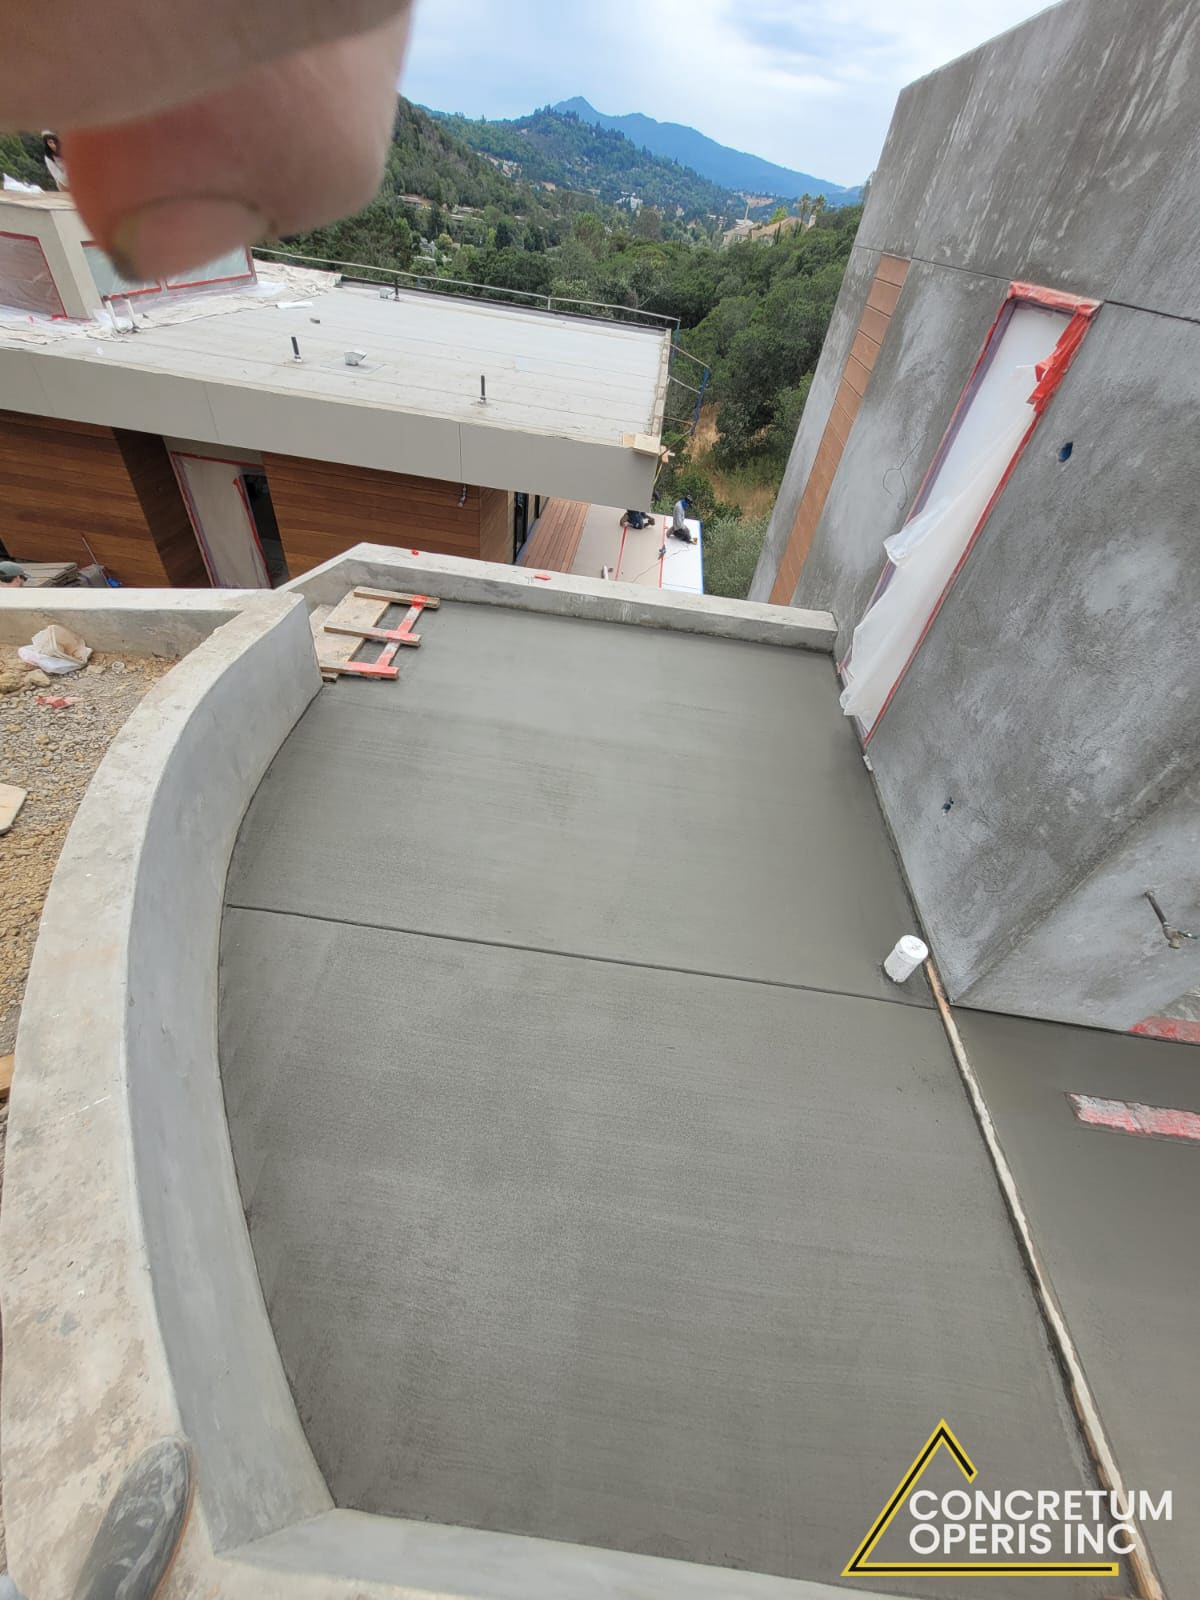
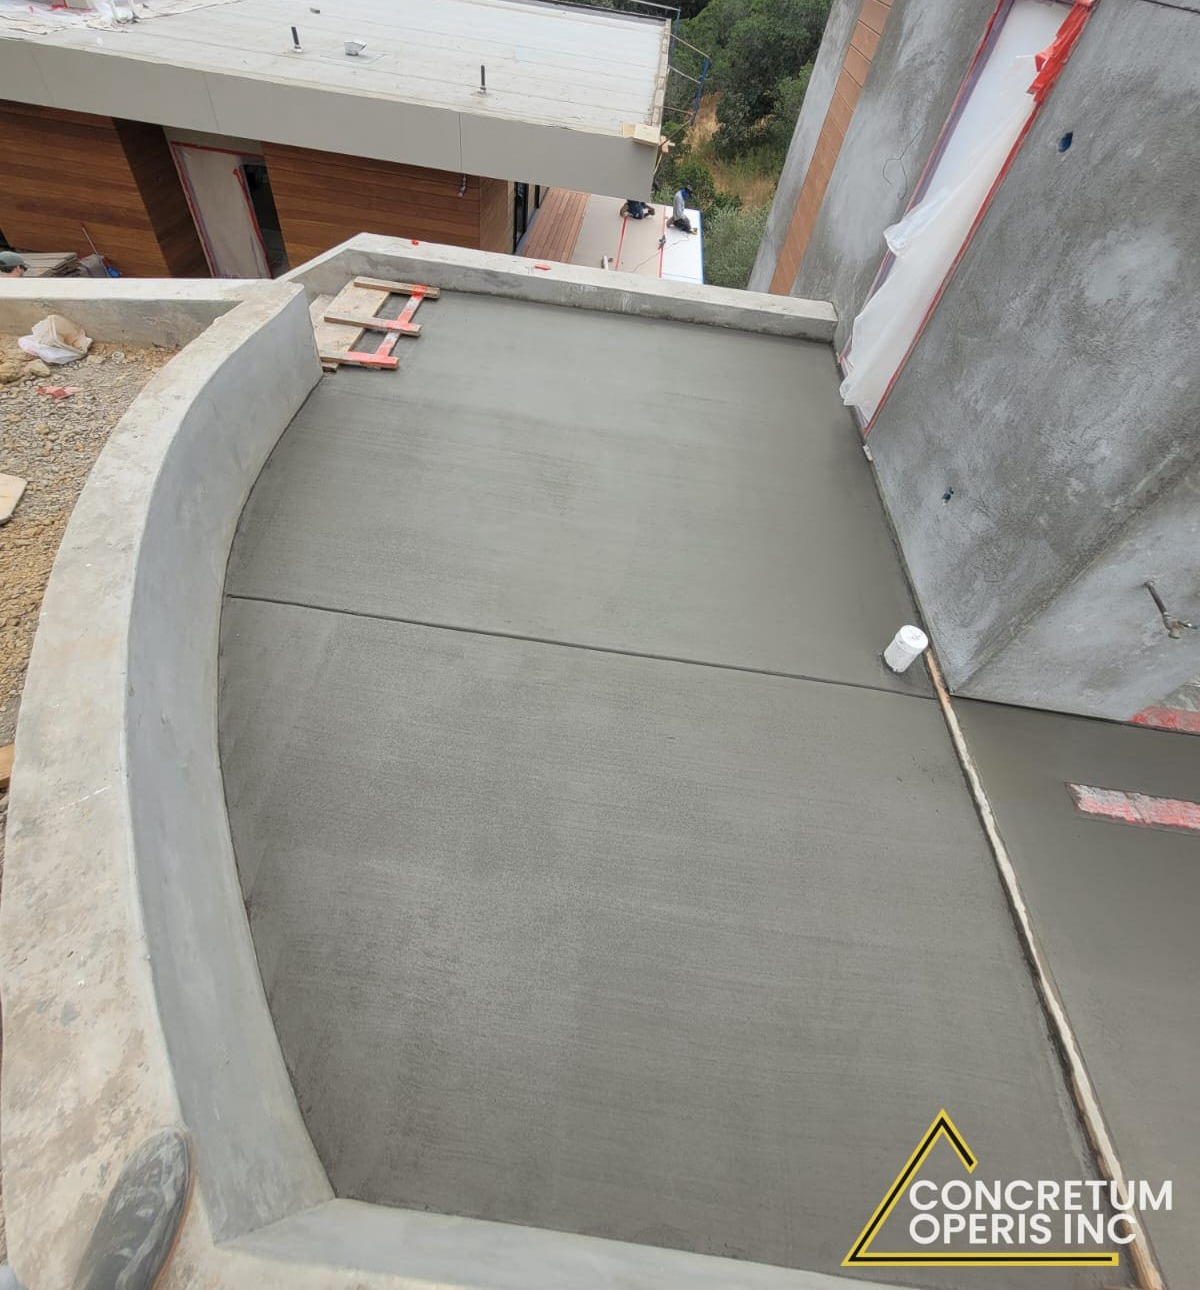
fix: recorta la foto de fachada y camino para quitar el dedo del encuadre

diff --git a/docs/projects/concrete-facade-driveway/index.html b/docs/projects/concrete-facade-driveway/index.html
@@ -4170,7 +4170,7 @@
                 loading="lazy"
                 decoding="async"
                 width="1200"
-                height="1600"
+                height="1290"
               /></div>
               <div class="wm-photo"><img
                 src="/concretum-web/media/projects/concrete-facade-driveway/05.jpg"

diff --git a/public/projects/concrete-facade-driveway/index.html b/public/projects/concrete-facade-driveway/index.html
@@ -4170,7 +4170,7 @@
                 loading="lazy"
                 decoding="async"
                 width="1200"
-                height="1600"
+                height="1290"
               /></div>
               <div class="wm-photo"><img
                 src="/media/projects/concrete-facade-driveway/05.jpg"
